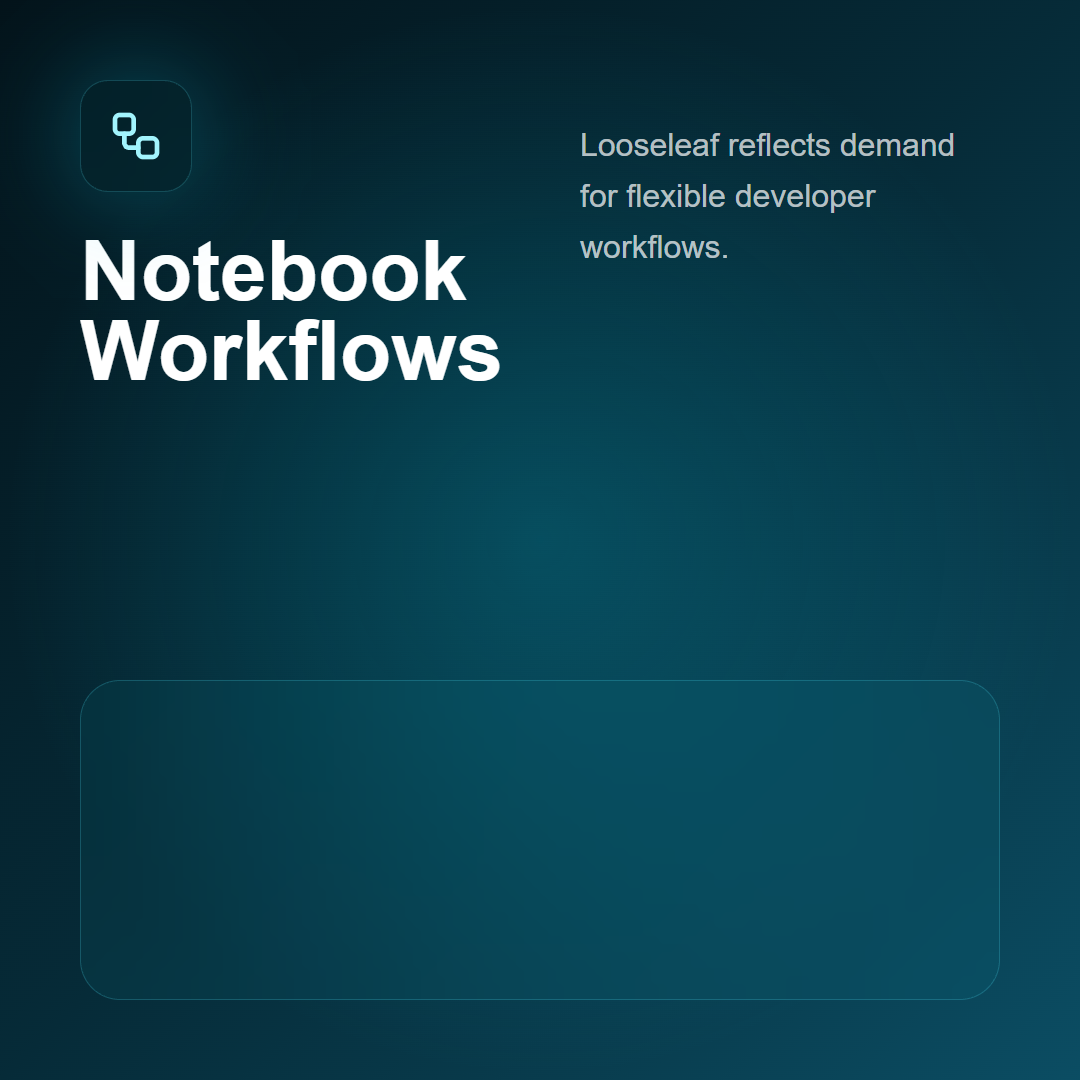
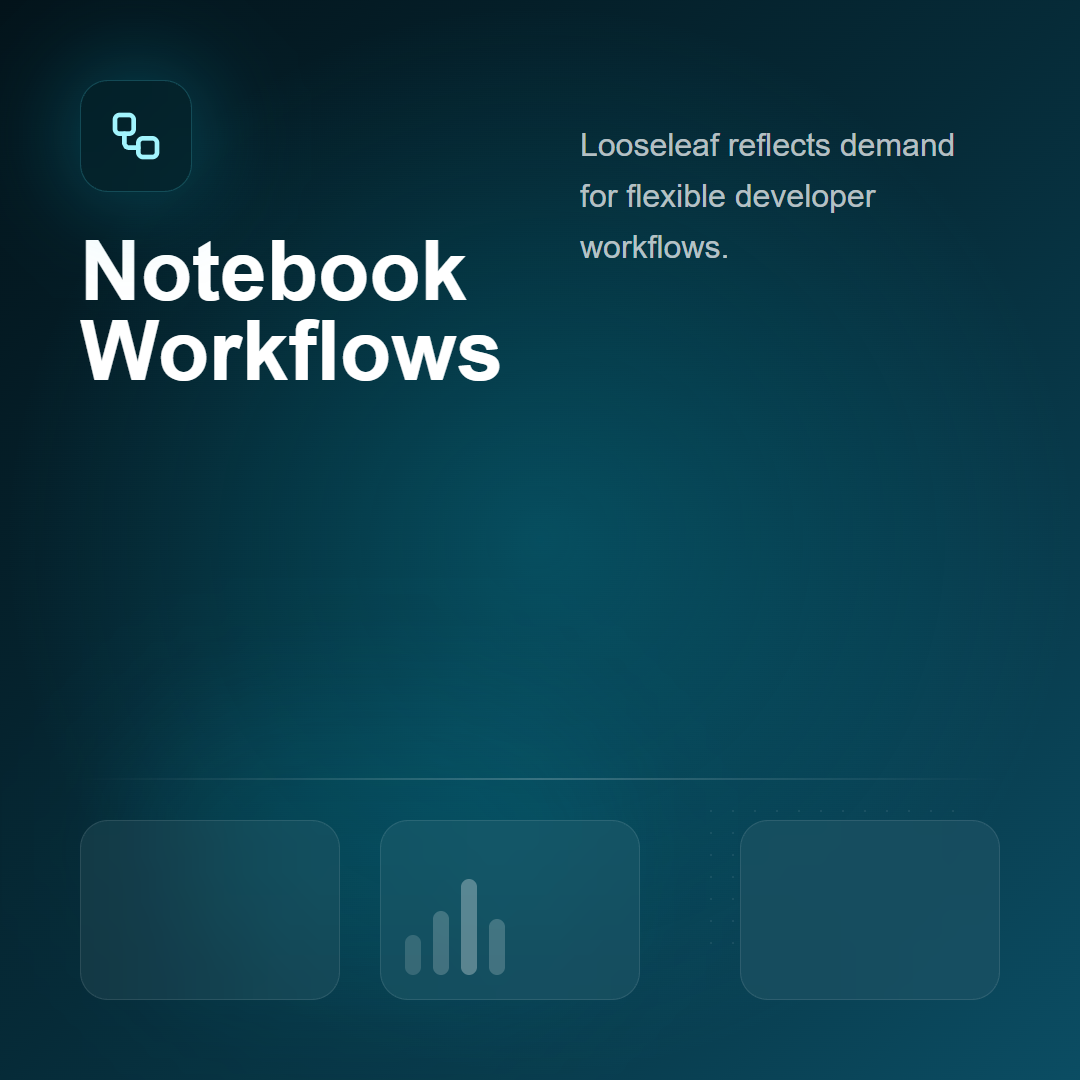
added some decorative elements too

Changed region(s): [[0.3667, 0.7944, 0.4889, 0.9167]]

diff --git a/renderer/src/templates/FullBackgroundImageOverlayText.jsx b/renderer/src/templates/FullBackgroundImageOverlayText.jsx
@@ -1,4 +1,9 @@
 import { iconContainerStyles, iconSizeStyles } from "../icons/iconStyles";
+import {
+  GlowOrb,
+  DotGrid,
+  GradientLine,
+} from "../components/DecorativeElements";
 
 export default function FullBackgroundImageOverlayText({
   title,
@@ -14,8 +19,19 @@ export default function FullBackgroundImageOverlayText({
       <div className={`absolute inset-0 ${theme.decorativeGradient}`} />
 
       <div className="absolute top-0 left-0 w-full h-full overflow-hidden">
-        <div className="absolute top-[-100px] right-[-100px] w-[500px] h-[500px] rounded-full bg-white/5 blur-3xl" />
-        <div className="absolute bottom-[-120px] left-[-120px] w-[600px] h-[600px] rounded-full bg-white/5 blur-3xl" />
+        <GlowOrb
+          className="w-[500px] h-[500px] top-[-100px] right-[-100px]"
+          color="bg-indigo-400/10"
+        />
+
+        <GlowOrb
+          className="w-[600px] h-[600px] bottom-[-120px] left-[-120px]"
+          color="bg-cyan-400/10"
+        />
+
+        <DotGrid className="top-20 right-20 w-[300px] h-[300px]" />
+
+        <GradientLine className="top-32 left-0 w-full h-[2px]" />
       </div>
 
       <div className="relative z-20 flex flex-col justify-end h-full p-20">
@@ -26,13 +42,13 @@ export default function FullBackgroundImageOverlayText({
         </div>
 
         <h1
-          className={`text-[88px] leading-[0.95] font-bold max-w-[760px] mb-8 ${theme.textPrimary}`}
+          className={`text-[92px] leading-[0.92] font-bold max-w-[860px] mb-8 ${theme.textPrimary}`}
         >
           {title}
         </h1>
 
         <p
-          className={`text-[32px] leading-[1.5] max-w-[620px] ${theme.mutedText}`}
+          className={`text-[34px] leading-[1.5] max-w-[700px] ${theme.mutedText}`}
         >
           {body}
         </p>

diff --git a/renderer/src/components/DecorativeElements.jsx b/renderer/src/components/DecorativeElements.jsx
@@ -1,0 +1,57 @@
+export function GlowOrb({ className = "", color = "bg-cyan-400/20" }) {
+  return (
+    <div className={`absolute rounded-full blur-3xl ${color} ${className}`} />
+  );
+}
+
+export function GlassCard({ className = "" }) {
+  return (
+    <div
+      className={`absolute bg-white/5 backdrop-blur-2xl border border-white/10 rounded-[28px] ${className}`}
+    />
+  );
+}
+
+export function DotGrid({ className = "" }) {
+  return (
+    <div
+      className={`absolute opacity-20 ${className}`}
+      style={{
+        backgroundImage:
+          "radial-gradient(circle, rgba(255,255,255,0.35) 1px, transparent 1px)",
+        backgroundSize: "22px 22px",
+      }}
+    />
+  );
+}
+
+export function GradientLine({ className = "" }) {
+  return (
+    <div
+      className={`absolute rounded-full bg-gradient-to-r from-transparent via-white/20 to-transparent ${className}`}
+    />
+  );
+}
+
+export function DashboardWidget({ className = "" }) {
+  return (
+    <div
+      className={`absolute bg-white/5 backdrop-blur-2xl border border-white/10 rounded-[28px] p-5 ${className}`}
+    >
+      <div className="absolute bottom-6 left-6 flex items-end gap-3">
+        <div className="w-4 h-10 rounded-full bg-white/15" />
+        <div className="w-4 h-16 rounded-full bg-white/20" />
+        <div className="w-4 h-24 rounded-full bg-white/30" />
+        <div className="w-4 h-14 rounded-full bg-white/20" />
+      </div>
+    </div>
+  );
+}
+
+export function AnimatedBorder({ className = "" }) {
+  return (
+    <div
+      className={`absolute rounded-[32px] border border-white/10 before:absolute before:inset-0 before:rounded-[32px] before:border before:border-cyan-300/20 before:animate-pulse ${className}`}
+    />
+  );
+}

diff --git a/renderer/src/templates/SplitLeftTextRightImage.jsx b/renderer/src/templates/SplitLeftTextRightImage.jsx
@@ -1,4 +1,10 @@
 import { iconContainerStyles, iconSizeStyles } from "../icons/iconStyles";
+import {
+  GlowOrb,
+  GlassCard,
+  DotGrid,
+  DashboardWidget,
+} from "../components/DecorativeElements";
 
 export default function SplitLeftTextRightImage({
   title,
@@ -32,16 +38,19 @@ export default function SplitLeftTextRightImage({
         </p>
       </div>
 
-      <div className="w-1/2 relative flex items-center justify-center">
-        <div
-          className={`absolute top-24 right-20 w-[420px] h-[700px] rounded-[40px] ${theme.cardBackground} ${theme.cardBorder}`}
+      <div className="w-1/2 relative flex items-center justify-center overflow-hidden">
+        <GlowOrb
+          className="w-[420px] h-[420px] right-10 top-32"
+          color="bg-cyan-400/15"
         />
-        <div
-          className={`absolute top-40 right-40 w-[280px] h-[180px] rounded-[28px] ${theme.cardBackground} ${theme.cardBorder}`}
-        />
-        <div
-          className={`absolute bottom-36 right-32 w-[340px] h-[220px] rounded-[28px] ${theme.cardBackground} ${theme.cardBorder}`}
-        />
+
+        <DotGrid className="w-[320px] h-[320px] right-10 top-24" />
+
+        <GlassCard className="top-24 right-20 w-[420px] h-[700px]" />
+
+        <GlassCard className="top-40 right-40 w-[280px] h-[180px]" />
+
+        <DashboardWidget className="bottom-36 right-32 w-[340px] h-[220px]" />
 
         <div
           className={`relative z-10 ${iconContainerStyles.circle} ${theme.cardBackground} ${theme.cardBorder} ${theme.accentGlow}`}

diff --git a/renderer/src/templates/TitleLeftBodyRight.jsx b/renderer/src/templates/TitleLeftBodyRight.jsx
@@ -1,4 +1,11 @@
 import { iconContainerStyles, iconSizeStyles } from "../icons/iconStyles";
+import {
+  GlowOrb,
+  GlassCard,
+  DotGrid,
+  DashboardWidget,
+  GradientLine,
+} from "../components/DecorativeElements";
 
 export default function TitleLeftBodyRight({ title, body, icon: Icon, theme }) {
   return (
@@ -32,10 +39,21 @@ export default function TitleLeftBodyRight({ title, body, icon: Icon, theme }) {
           </div>
         </div>
 
-        <div className="flex-1 flex items-end justify-center">
-          <div
-            className={`w-full h-[320px] rounded-[40px] ${theme.cardBackground} ${theme.cardBorder} mt-16`}
+        <div className="flex-1 flex items-end justify-center relative">
+          <GlowOrb
+            className="w-[500px] h-[300px] left-10 bottom-0"
+            color="bg-cyan-400/10"
           />
+
+          <DotGrid className="w-[260px] h-[160px] right-10 bottom-10" />
+
+          <GlassCard className="left-0 bottom-0 w-[260px] h-[180px]" />
+
+          <DashboardWidget className="left-[300px] bottom-0 w-[260px] h-[180px]" />
+
+          <GlassCard className="right-0 bottom-0 w-[260px] h-[180px]" />
+
+          <GradientLine className="bottom-[220px] left-0 w-full h-[2px]" />
         </div>
       </div>
     </div>

diff --git a/renderer/src/templates/TitleTopIconCenter.jsx b/renderer/src/templates/TitleTopIconCenter.jsx
@@ -1,4 +1,10 @@
 import { iconContainerStyles, iconSizeStyles } from "../icons/iconStyles";
+import {
+  GlowOrb,
+  DotGrid,
+  GradientLine,
+  GlassCard,
+} from "../components/DecorativeElements";
 
 export default function TitleTopIconCenter({ title, body, icon: Icon, theme }) {
   return (
@@ -6,6 +12,24 @@ export default function TitleTopIconCenter({ title, body, icon: Icon, theme }) {
       className={`w-full h-[1080px] overflow-hidden relative flex flex-col items-center px-20 py-24 text-center ${theme.background}`}
     >
       <div className={`absolute inset-0 ${theme.decorativeGradient}`} />
+
+      <GlowOrb
+        className="top-10 left-10 w-[260px] h-[260px]"
+        color="bg-violet-400/10"
+      />
+
+      <GlowOrb
+        className="bottom-20 right-10 w-[320px] h-[320px]"
+        color="bg-cyan-400/10"
+      />
+
+      <DotGrid className="top-20 right-20 w-[240px] h-[240px]" />
+
+      <GradientLine className="top-[420px] left-0 w-full h-[2px]" />
+
+      <GlassCard className="bottom-24 left-20 w-[220px] h-[140px]" />
+
+      <GlassCard className="bottom-24 right-20 w-[220px] h-[140px]" />
 
       <h1
         className={`relative z-10 text-[84px] leading-[0.95] font-bold max-w-[850px] mb-12 ${theme.textPrimary}`}

diff --git a/renderer/src/templates/CenteredTitleCenteredBody.jsx b/renderer/src/templates/CenteredTitleCenteredBody.jsx
@@ -1,4 +1,9 @@
 import { iconContainerStyles, iconSizeStyles } from "../icons/iconStyles";
+import {
+  GlowOrb,
+  DotGrid,
+  GradientLine,
+} from "../components/DecorativeElements";
 
 export default function CenteredTitleCenteredBody({
   title,
@@ -12,8 +17,19 @@ export default function CenteredTitleCenteredBody({
     >
       <div className={`absolute inset-0 ${theme.decorativeGradient}`} />
 
-      <div className="absolute top-16 right-16 w-40 h-40 rounded-full bg-white/5 blur-3xl" />
-      <div className="absolute bottom-10 left-10 w-60 h-60 rounded-full bg-white/5 blur-3xl" />
+      <GlowOrb
+        className="top-20 left-20 w-[300px] h-[300px]"
+        color="bg-cyan-400/10"
+      />
+
+      <GlowOrb
+        className="bottom-10 right-10 w-[300px] h-[300px]"
+        color="bg-blue-500/10"
+      />
+
+      <DotGrid className="top-16 right-16 w-[240px] h-[240px]" />
+
+      <GradientLine className="bottom-32 left-0 w-full h-[2px]" />
 
       <div
         className={`relative z-10 mb-12 ${iconContainerStyles.large} ${theme.cardBackground} ${theme.cardBorder} ${theme.accentGlow}`}
